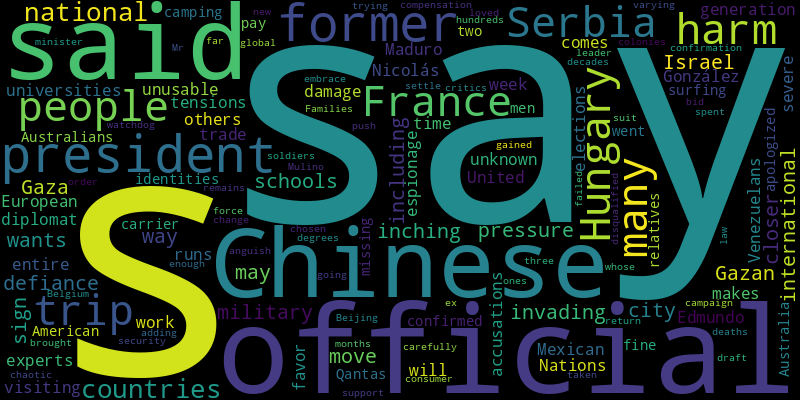
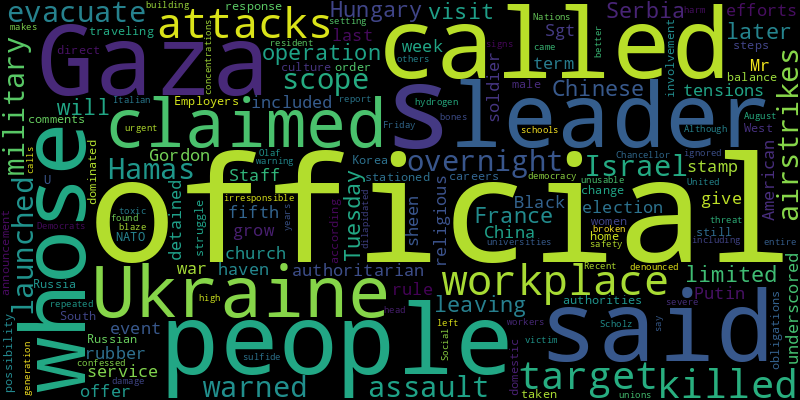
chore(bot): 🟩 auto commit

diff --git a/README.md b/README.md
@@ -2,41 +2,41 @@
 Auto RSS New York Times and Generate Word Cloud
 
 ## New York Times Global News
-* Israel wants to “move people out of harm’s way,” a military official said, a sign that it may be inching closer to invading the Gazan city in defiance of international pressure.
+* Before the overnight assault in Gaza, Israel warned 110,000 people to evacuate and launched airstrikes against what it called Hamas targets. A military official said the scope of the operation was limited.
+* After leaving France later Tuesday, the Chinese leader will visit Serbia and Hungary, whose authoritarian leaders offer a haven for China as tensions grow over the war in Ukraine.
+* The event for Mr. Putin, who claimed his fifth term in a rubber-stamp election, included a church service that underscored efforts to give a religious sheen to his rule.
+* The American soldier, Staff Sgt. Gordon Black, was detained last week. He was traveling home after being stationed in South Korea, according to the U.S. authorities.
+* Employers have taken steps to change a male-dominated workplace culture. But women still struggle to balance their careers with domestic obligations.
+* Russian officials claimed the order was in response to comments from the West about the possibility of more direct involvement in Ukraine. NATO called Russia’s announcement “irresponsible.”
 * Most of Gaza’s schools, including all of its universities, have severe damage that makes them unusable, which could harm an entire generation, the United Nations and others say.
-* The Chinese president this week will be visiting France, Serbia and Hungary. His trip comes at a time of tensions with many European countries over trade and accusations of Chinese espionage.
-* Edmundo González, a former diplomat, is unknown to many Venezuelans. But some experts say that could work in his favor as he runs against President Nicolás Maduro in national elections.
-* Mexican officials said the identities of two Australians and an American had been confirmed by relatives. The men went missing during a surfing and camping trip.
-* Qantas, Australia’s national carrier, apologized and said it would pay a fine and compensation to settle a suit brought by a consumer watchdog.
-* The Chinese leader has carefully chosen three countries — France, Serbia and Hungary — that to varying degrees embrace Beijing’s push for a new global order.
-* Families of some soldiers say they have spent months trying to get official confirmation of their loved ones’ deaths, adding to their anguish.
-* Mr. Mulino, a former security minister, gained support in the chaotic campaign from an ex-president whose bid had been disqualified.
-* For decades, Belgium failed to return the remains of hundreds of people taken by force from former colonies. A draft law could change that, but critics say it is not going far enough.
+* Recent attacks came to a head on Friday when a victim was left with broken bones. Chancellor Olaf Scholz, whose Social Democrats have been a target, denounced the attacks as a threat to democracy.
+* An official said the workers were killed by hydrogen sulfide, which is toxic in high concentrations. Italian officials and unions repeated urgent calls for better workplace safety.
+* Although a resident confessed to setting the August 2023 blaze that killed 76 people in a dilapidated building, a report found that officials had ignored warning signs for years.
 
 ![Global](./global.png)
 ## New York Times United States News
-* The first big pro-Israel counter demonstration was on Sunday in Los Angeles, home to large Israeli and Jewish populations. More are planned in the coming days.
-* The new application for federal tuition aid was meant to be simpler. High school seniors say it has been anything but, and some are still unsure of their plans after graduation.
-* Conservative state governments are forbidding school districts from doing what the Department of Education says they must, under new Title IX regulations on students’ gender identity.
-* Muenster, Texas, has hosted a German-heritage festival for nearly 50 years. But then some locals rebelled.
-* The president has allowed protest encampments. But they have also disrupted campus life, and he wants the tents down.
-* Severe thunderstorms could bring large hail, damaging winds and powerful tornadoes to the Southern and Central Plains on Monday, forecasters said.
-* A new Florida law prohibits many Chinese citizens from buying homes because of national security concerns. Critics say it has fueled discrimination and chilled the local property market.
-* The ad, a sleek 30-minute production, was blocked for several hours on Friday and Saturday. Meta, which owns both platforms, said the link had been incorrectly flagged as spam.
-* A decision by the Federal Election Commission would allow the Biden and Trump campaigns to raise money for outside groups pushing ballot measures.
-* A 4-year-old boy died on Sunday in Johnson County, Texas, after being swept away by floodwaters, the authorities said.
+* Accusations of antisemitism in K-12 schools have fractured a city long known for its progressive ideals and inclusiveness.
+* After helping topple two college presidents, Congress will grill school district leaders from New York City; Berkeley, Calif.; and Montgomery County in Maryland.
+* Mayor Cherelle Parker campaigned on restoring “lawfulness” to the city. Kensington, where addiction seems to be around every corner, will be her biggest test.
+* Dozens of former juvenile inmates, now adults, say they were abused by Illinois correctional workers. Lawsuits in other states have made similar claims.
+* The university has presented itself as a national model for free expression on campus. Its president said that the encampment “cannot continue.”
+* Severe weather moving east on Tuesday will bring frequent lightning, strong winds and the possibility of tornadoes to parts of Indiana, Kentucky and Ohio.
+* President Biden’s address from Capitol Hill comes during weeks of protests on American college campuses against Israel’s war in Gaza.
+* New testimony underscores how a critical miscommunication between top military officials contributed to a four-hour delay in deploying troops to help restore order at the Capitol on Jan. 6, 2021.
+* The Biden administration is spending billions to reconnect communities of color that have been fragmented by highways. Some projects have stirred debates over how to mend longstanding harms.
+* It was not clear whether Hamas revealed in the cease-fire negotiations with Israel how many of the 33 who would be freed in the first phase of the proposed deal are still alive and how many are dead.
 
 ![US](./usnews.png)
 ## New York Times Asia News
+* At least 21 other people were injured during the stabbing rampage in the southwestern province of Yunnan, the police said. A suspect was arrested.
+* Employers have taken steps to change a male-dominated workplace culture. But women still struggle to balance their careers with domestic obligations.
+* The soldier was apprehended in Vladivostok on charges of criminal misconduct, in a case that is likely to aggravate the contentious relationship between Moscow and Washington.
+* The new U.S. approach to cyberthreats comes as early optimism about a “global internet” connecting the world has been shattered.
+* Also, Russia plans for nuclear drills.
+* The shipping company said the militia had recently tried to attack ships farther from the shore of Yemen, putting more strain on logistics.
+* Talks in Paris with President Macron produced a call for an “Olympics truce” this summer but no concrete progress on Beijing putting pressure on Russia.
 * Qantas, Australia’s national carrier, apologized and said it would pay a fine and compensation to settle a suit brought by a consumer watchdog.
 * Women in Shanghai gather in bars, salons and bookstores to reclaim their identities as the country’s leader calls for China to adopt a “childbearing culture.”
 * Also, Israel cracks down on Al Jazeera and Myanmar’s rebels get creative with drones.
-* The episode occurred just weeks after two major stabbing attacks in the country. The youth had been under monitoring for having extremist tendencies.
-* The global price of gold has reached its highest levels as Chinese investors and consumers, wary of real estate and stocks, buy the metal at a record pace.
-* Federal prosecutors say Representative Henry Cuellar tried to shape policy for Azerbaijan in exchange for bribes. The country has spent millions in the past decade lobbying Washington.
-* India’s external spy agency, the Research and Analysis Wing, has long been accused of tapping into criminal networks to carry out operations in South Asia. Is the agency now doing similar operations in the West?
-* Consumer technologies are altering the course of the battle in Myanmar, and rebel drone units are taking notes on Ukraine and other conflicts.
-* The killing of Hardeep Singh Nijjar, a Sikh nationalist who had sought a separate state in India and was viewed as a terrorist by New Delhi, set off diplomatic tensions between Canada and India.
-* Since pulling out of an arms-limitation agreement with Russia in 2019, the U.S. has quickly developed new weapons that could be used to stop a Chinese invasion force.
 
 ![Asian](./asian.png)
